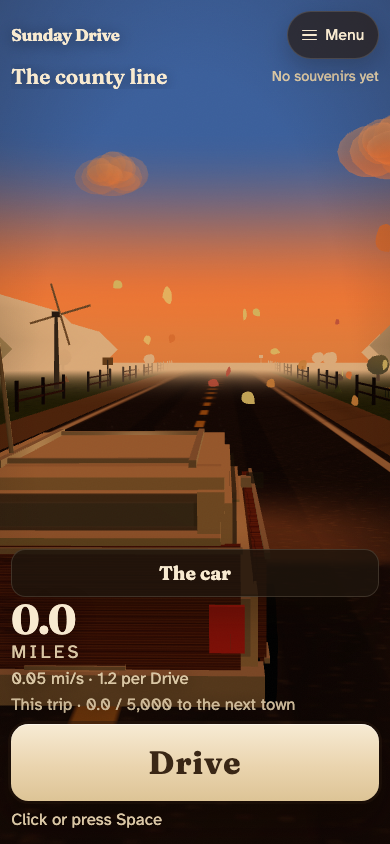
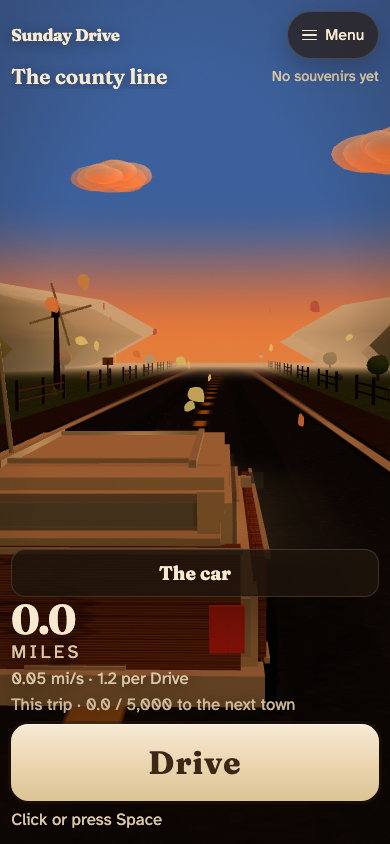
docs: recapture Air stills on the immersive base
Merge kept scoreAir on wave 9 and immersive wave 10. Rerun
node wave10-air/capture.mjs so evidence matches this tip.

diff --git a/wave10-air/RESULT.md b/wave10-air/RESULT.md
@@ -4,7 +4,8 @@ Draft only. Not merged. Not deployed to production.
 
 ## PR
 
-None. Branch `wave/10-cozy-air` off `main` @ `958547a`. Do not open a PR from this pass.
+https://github.com/andrewkittridge/sunday-drive/pull/13  
+Base: `main` after wave 9 and immersive wave 10. Head: `wave/10-cozy-air`.
 
 ## Thesis
 
